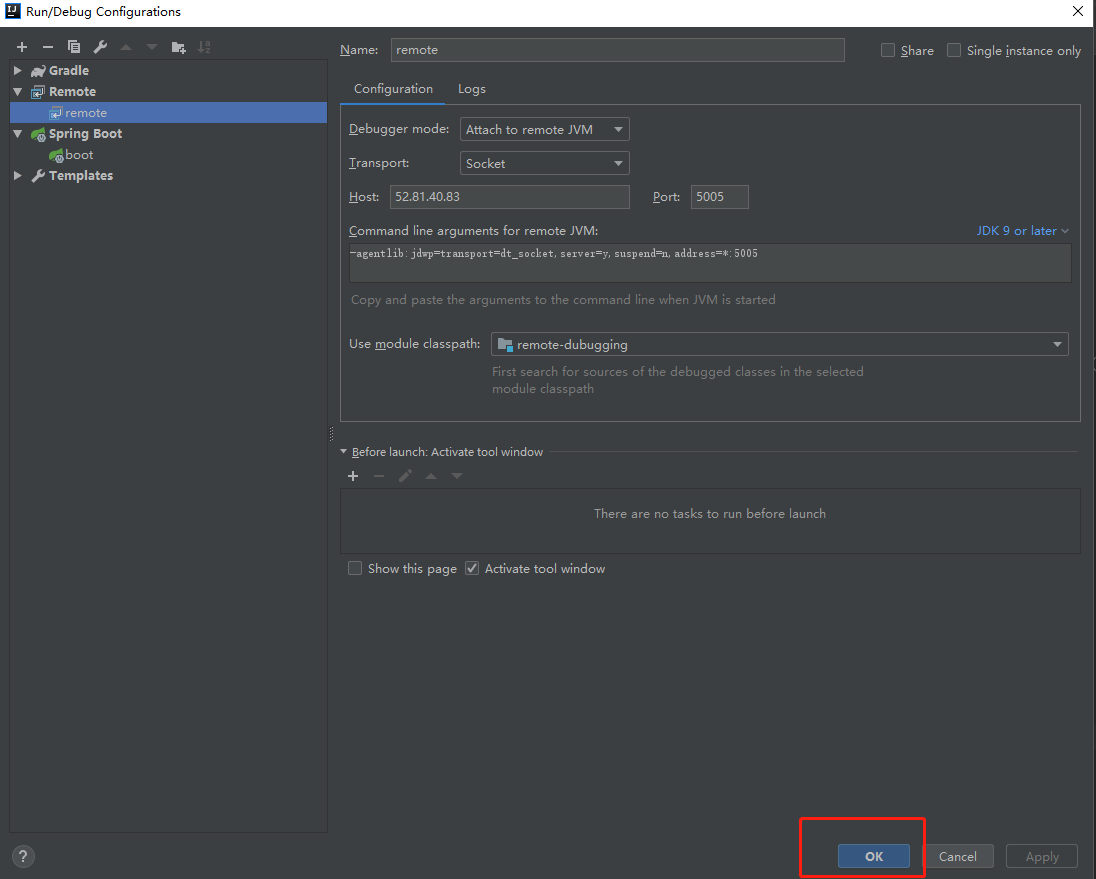
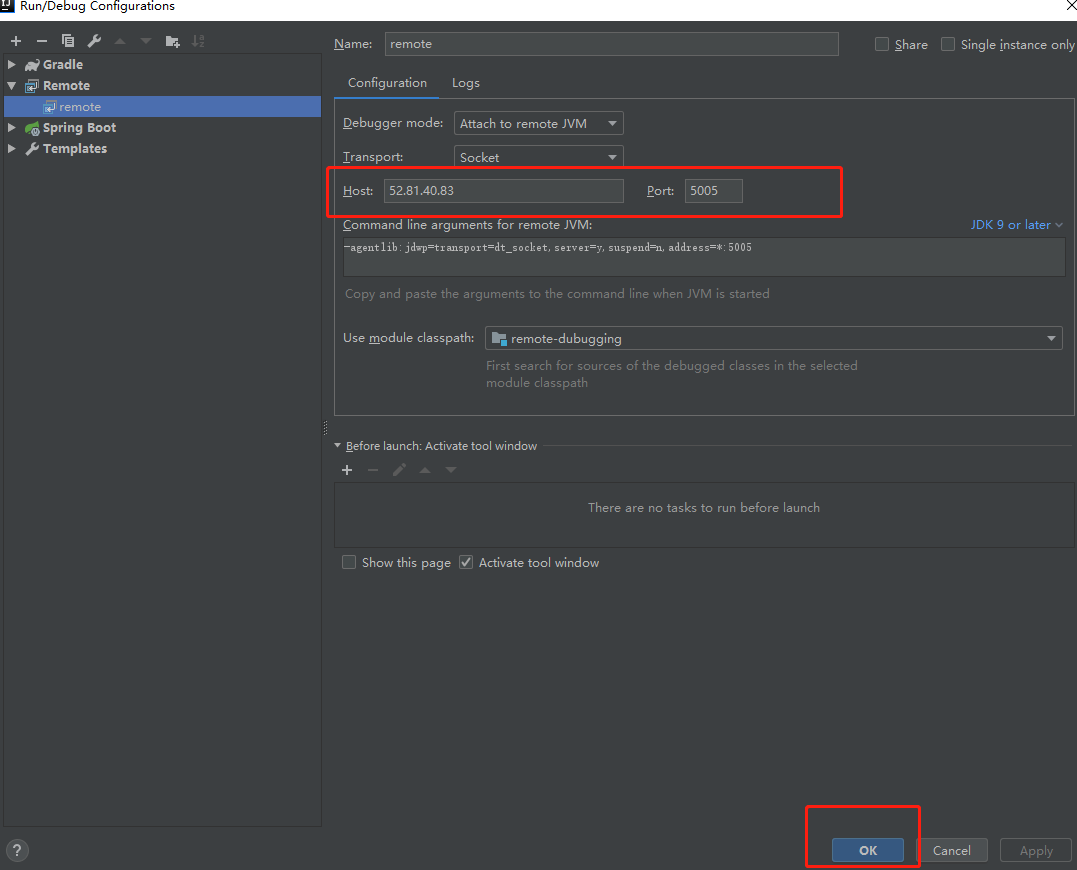
update README

diff --git a/README.md b/README.md
@@ -79,7 +79,7 @@
 3. 如果你的启动项中没有点击 "+" ，选择"Remote"添加，自定义一个名字（比如我命名为"remote"）：
 <img src='src/images/222.png' />
 
-4. 点击 "OK" 保存：
+4. 配置好你的 HostIp，以及开启的调试端口，点击 "OK" 保存：
 <img src='src/images/333.png' />
 
 5. 点击 "debug" 图标，启动调试：
